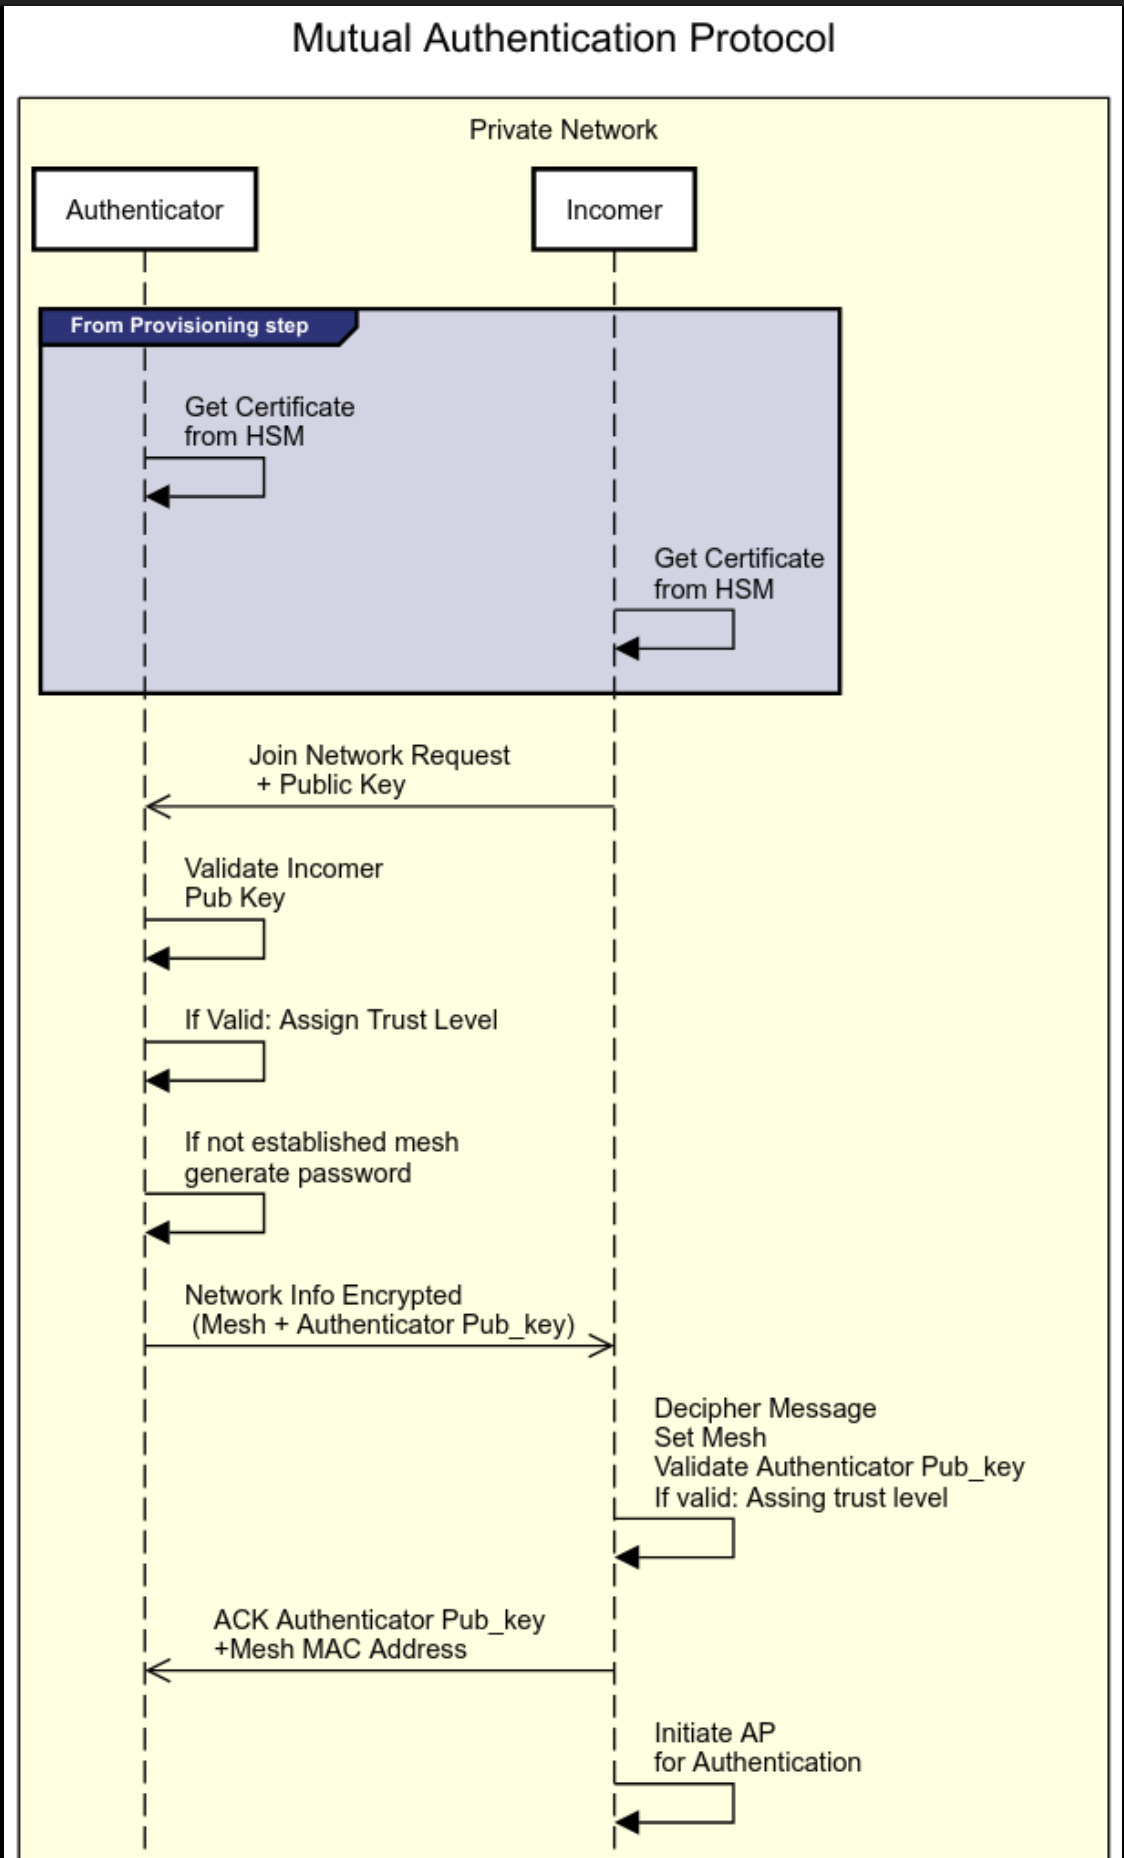
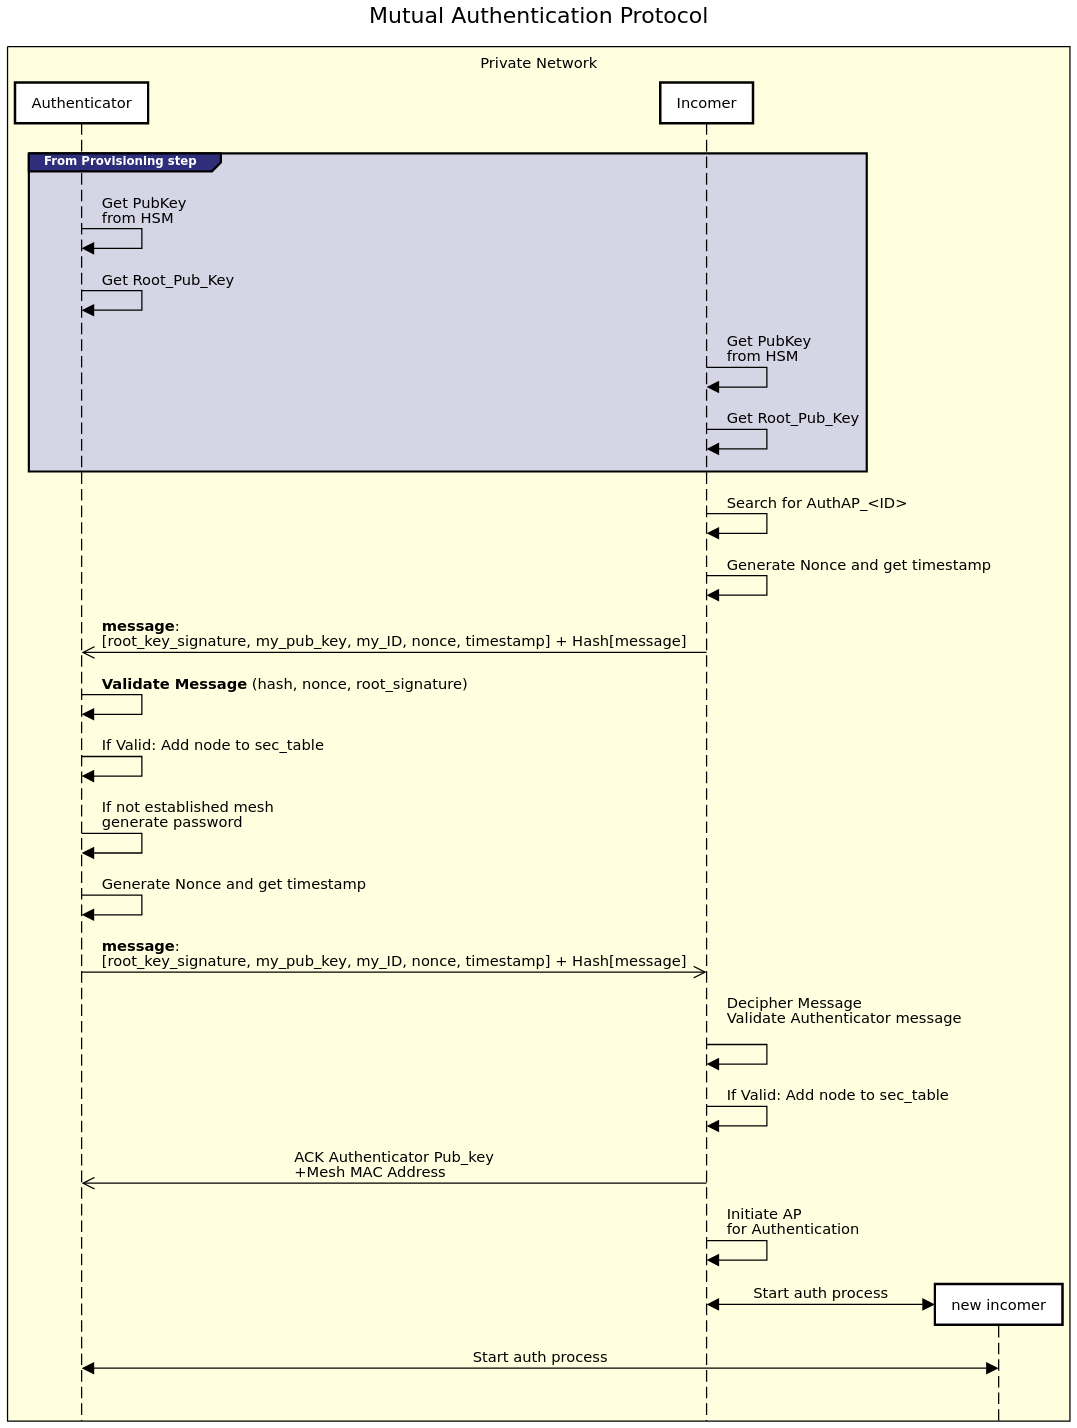
Create Readme.md
** 15Arc.png --> added figure and folder on common
** entrypoint.sh --> modify variable meshversion, added '$' on line 165, generate_random_mesh_ip to avoid (1 and 255), added verification of provisioning on features.yaml to copy fake certificate
** first-step.png --> removed
** mesh.conf --> change variable name
** node-auth.png --> update image
** protocol.png --> update image
** prov-server.png --> removed
** Readme.md (provServer) --> updated
** Readme.md (mutualAuth) --> updated
** Readme.md (main) --> added
** second-step.png --> removed
** test_sec_beat.py --> moved from test.py on main

Jira_Id : MSS15-33

diff --git a/modules/sc-mesh-secure-deployment/src/1_5/common/test/test_sec_beat.py b/modules/sc-mesh-secure-deployment/src/1_5/common/test/test_sec_beat.py
@@ -1,3 +1,5 @@
+import sys
+sys.path.insert(0, '../../')
 import header
 from main import *
 from common import utils

diff --git a/modules/sc-mesh-secure-deployment/src/1_5/features/mutual/provServer/Readme.md b/modules/sc-mesh-secure-deployment/src/1_5/features/mutual/provServer/Readme.md
@@ -1,99 +1,144 @@
 # Provisioning Server for Mutual Authentication
 
-## Introduction
-
-The provisioning server is needed to create the ID, certificates, sign the public key :lock_with_ink_pen: and provide the certificates to the nodes. The server uses GnuPG software for key creation and signing. 
-
-The provisioning Server is only executed **once**, before the mission, only for key generation,  node ID, and mesh parameters provisioning.The node ID is generated from the user input of the MAC address of the node (interface of the mesh). The MAC address is hashed using the blake2s algorithm. The output is a hexadecimal digest of 2 bytes. The ID is obtained with the conversion of the digest as an integer.
-
-The public :key: and private keys :old_key: are stored in separate files nodeIDpb.asc and nodeIDpr.asc. Then both files are transferred (via scp) to the node. This means that **both node and server must be connected to the same Access Point**. 
-
-The mesh parameters are obtained from an already created YAML file, the [mesh_com.conf](https://github.com/tiiuae/mesh_com/blob/feature/develop_pgp/modules/sc-mesh-secure-deployment/src/mesh_com.conf). The mesh IP is randomly generated and verified if it has not been provisioned. 
-
-Also, the server creates a comma-separated value (csv) of all seen nodes. This file is stored in ‘auth/dev.csv' and contains the Node ID, MAC Address, Mesh IP, and Fingerprint of the public key. 
-
-![Conceptual Diagram](../images/mutual-authentication.png)
-
-## Run Program
-### Normal Execution 
-```
-./provServer.py
-```
-It will be asked the MAC address (mesh interface) of the destination node
-
-`` Enter a MAC Address (in the format AA:BB:CC:DD:EE) : ``
-
-and then the IP address for transferring the files:
-
-`Would you like to send the certificates to a node? (yes/no): yes`
-
-`Enter node IP address: 192.168.1.100`
-
-### Cleaning Execution
-This will clean all the keys generated as well as the files.
-
-```
-./provServer.py -c
-```
-
-## Code Flow
-![Conceptual Diagram](../images/prov-server.png)
-
-
-## Installation Flow
-
-Source code
-GitHub - https://github.com/tiiuae/configurationservice 
-
-How to use
+## How to use
 The whole configuration and provisioning system comprises two discrete components from the functionality perspective; An admin console and the config-service. 
 
 The admin console is the placeholder/server from where all the device configuration parameters can be configured for any incoming client connection. It is to be noted that the admin console host machine and the incoming device request (where the config-service would be running) should be connected over the same access point. 
 
 Installing the configuration and provisioning service:
+ 
+Clone the repository: `https://github.com/tiiuae/configurationservice.git`   on the host machine
 
- Clone the repository: https://github.com/tiiuae/configurationservice
+ 
 
+### Windows OS
 If Host machine/device:   Used as an Admin Console:
 
-  Install MySQL 
+- Install MySQL and create a schema named: admin-console
 
-  Install Spring Boot | IntelliJ IDEA (jetbrains.com)
+- Install Spring Boot | IntelliJ IDEA (jetbrains.com)
 
-  Install Node.js
+- Install Node.js
 
-  Restart the system
+- Restart the system
 
-  npm install -g @angular/cli@10.0.0
+- npm install -g @angular/cli@10.0.0
 
-  ng serve: After successful execution, the admin console UI should appear at localhost:4200
+- run mvn package
 
-  Open the admin console application in IntelliJ IDEA and run the application
+- ng serve: After successful execution, the admin console UI should appear at localhost:420
 
-  update the root user / PWD in the properties file and create schema admin-console
+### LINUX OS
+On the Linux os, some additional stuff needs to be done. Please follow the below stuff to get going
 
-If Host machine/device:   Used for config-service
+1. Clone the GitHub Repository
 
-Go to the /configurationservice/config-service directory
 
-To create a docker image: docker build -t config_service  (use sudo if not using on comm sleeve)
+`sudo git clone https://github.com/tiiuae/configurationservice.git`
+ 
 
-After successful image building: docker run -d - - network host config_service
+2. Go into configuratiionservice>admin-console-ui>
 
-Check whether the container is UP and copy the container id: docker ps -a
+   - Follow the below steps to Install Node.js
 
-Executing the config_service: docker exec -it  “container id”  sh
+````
+curl -o- https://raw.githubusercontent.com/nvm-sh/nvm/v0.38.0/install.sh
+curl -o- https://raw.githubusercontent.com/nvm-sh/nvm/v0.38.0/install.sh | bash
+source ~/.bashrc
+nvm list-remote
+nvm install v16.16.0
+````
+
+3.  Do sudo su
+
+
+`npm install -g @angular/cli@10.0.0 --force`
+ 
+
+4. Go to configuratiionservice>Admin-Console
+
+
+`sudo mvn package`
+ 
+
+5. Again configuratiionservice>admin-console-ui>
+
+
+`npm start`
+ 
 
  
 
-The above steps complete the execution at the config_service. Now go to the server webpage, to check for the device. If device ip address does not appear on the list--- ping the device from the server
-
-After Ping, the device will be visible in the list. On the menu set all the desire parameters, save the root certificate and press APPLY
-
-The APPLY will trigger a config.json file which could be seen on the client device. The json file contains all the required parameters. 
-
-If any parameters for the device need to be changed, just go to the admin console ui and change/add the parameters and do a APPLY.
+Common Steps after the above steps:
 
  
 
-Note: After every fresh running remove all the stopped containers via: docker systems prune -a
+* Open the AdminConsoleApplication present in the folder Admin-    Console>src>main>java>com.adminconsole in IntelliJ IDEA.
+
+* At the top select Edit Configurations and do the following: 1) Click on Modify options and enable “Add VM options”, 2) For the option Build and run select: java 18 openjdk-18 option in the first column and paste the “-Dspring.profiles.active=dev” in the second column. For the below column put  “com.adminconsole.AdminConsoleApplication”. Do the apply.
+
+* Go to Admin-    Console>src>main>java>resources in IntelliJ IDEA and Update the root user / PWD in the properties: application.properties and application-dev.properties for the SQL schema username and password  (lines 13 and 14 and lines 8 and 9 in the scripts, respectively)
+
+* Now go to the admin-console-ui folder>src>environments: In the file environment.ts in line 7 change https to http.
+
+* Run the AdminConsoleApplication in IntelliJ IDE
+
+* After execution, go to the MySQL and under the admin-console schema in the Table>role. Create a role manually with id “1” and name” ADMIN: and do apply.
+
+* Go to the web browser and open the link `http://localhost:4200/`. Register the user, if not. Login with the credentials if already registered.
+
+ 
+
+#### If Host machine/device:   Used for config-service
+ 
+
+Same steps on both Windows and Linux
+
+ 
+
+Do an SCP to transfer the configuration service to the comm sleeve devices.
+
+First of all 
+
+1. Go to the /configurationservice/config-service directory
+
+2. To create a docker image:
+
+
+```docker build -t config_service .```
+ (use sudo if not using on comm sleeve)
+
+3. After successful image building: 
+
+
+```docker run -d --network host config_service``` 
+
+Check whether the container is UP and copy the container id: 
+
+
+``docker ps -a``
+
+Executing the config_service: 
+
+
+`docker exec -it  <container id>  sh`
+ 
+
+##### If the JSON file has to be viewed outside the container
+
+```
+docker run -d --network host --volume config_service path:/root/ config_service 
+docker exec -it  <container id>  cp /config.json /root/
+```
+
+The above steps complete the execution at the config_service. Now go to the server webpage, to check for the device. If the device ip address does not appear on the list--- ping the device from the server
+
+After Ping, the device will be visible in the list. On the menu set all the desired parameters, save the root certificate and press APPLY
+
+The APPLY will trigger a config.json file which could be seen on the client device. The JSON file contains all the required parameters. 
+
+If any parameters for the device need to be changed, just go to the admin console UI and change/add the parameters and do an APPLY.
+
+ 
+
+Note: After every fresh running remove all the stopped containers via docker systems prune -a

diff --git a/modules/sc-mesh-secure-deployment/src/1_5/Readme.md b/modules/sc-mesh-secure-deployment/src/1_5/Readme.md
@@ -1,0 +1,48 @@
+# Mesh Shield 1.5
+
+The Mesh Shield 1.5 is a security solution for mesh network devices that provides advanced protection against malicious attacks. It includes several security features that help ensure the security of the mesh network, including:
+
+1. Mutual Authentication: This feature verifies the identity participant devices  before allowing access to the network. It helps prevent unauthorized access and protects against identity theft.
+    - For the PoC (MS 1.5) we use prime field Weierstrass 256-bit Elliptic Curves (Also known as secp256r1P-256). In addition, we use SOFT-HSM with the pkcs11-tool for key handling.
+
+2. Continuous Authentication: This feature monitors network activity in real-time, detecting and preventing any unusual or suspicious behavior. It helps prevent attacks that can bypass traditional security measures such as firewalls and antivirus software.
+
+3. Decision Engine: The decision engine uses is a rule-based solution that creates a degree of trust for each node. 
+
+4. Malicious Announcement: This feature automatically blocks any devices that are identified as malicious or compromised. It prevents these devices from accessing the network and spreading malware.
+
+5. Quarantine: The quarantine feature isolates any devices that are suspected of being compromised or infected. It prevents them from accessing the network until they are thoroughly scanned and deemed safe.
+
+The following image shows a flow diagram of the Mesh Shield 1.5:
+
+<img src="./common/img/15Arc.png"/>
+
+
+## Execution
+
+The Mesh Shield 1.5 (MS1.5) runs on a docker automatically loaded during booting. 
+The MS1.5 path is on ```/opt/container-data/mesh/mesh_com/modules/sc-mesh-secure-deployment/src/1_5#```
+* `SC_MESH_FOLDER=/opt/container-data/mesh/mesh_com/modules/sc-mesh-secure-deployment/src/1_5`
+
+The system has a modularity execution that make it easy to run one or all the security features. 
+By default, the system will run Mutual Authentication (step 1) and the security beat (step 2 to 5).
+Nevertheless, it is possible to disable one or all the security features on the file: 
+``cat features.yaml``
+```
+only_mesh: false
+NESS: false
+continuous: false
+mutual: true
+secbeat: true
+quarantine: false
+mesh: true
+provisioning: false
+``` 
+
+## Configuration
+1. To configure the features that need to run on the system modify the `features.yaml` file. 
+If the `provisioning` feature is true, then the `root_cert.der` file should be placed on the `/etc/ssl/certs` folder. Otherwise, the system uses a "fake" `root_cert.der` for testing. 
+2. If any specific parameter of the mesh need to modify (`SSID`, `frequency`, etc)  modify the `$SC_MESH_FOLDER/common/mesh_com_11s.conf`.  
+   * This file should be modified by the provisioning server. 
+3. For setting the mesh shield version and installing the machine learning packages, modify the file `mesh.conf` on the docker file
+   * Currently only the last to variables are used in MS1.5 (MSVERSION and ML) --> this file needs to be integrated `with mesh_com_11s.conf` file

diff --git a/modules/sc-mesh-secure-deployment/src/1_5/features/mutual/Readme.md b/modules/sc-mesh-secure-deployment/src/1_5/features/mutual/Readme.md
@@ -18,20 +18,15 @@ Finally, when all the parameters are ready, another code on utils (mesh.py) will
 ### Protocol 
 
 The following image shows the protocol of the mutual authentication:
-<img src="../images/protocol.png" width="40%" height="40%"> 
+<img src="./images/protocol.png" width="40%" height="40%"> 
 
-## Run Program
-### Normal Execution 
-```
-./nodeAuth.py
-```
+### Certificate Provisioning
 
-### Cleaning Execution
-This will clean all the keys generated as well as the files.
+Each node generates a pair of keys. Both keys are generated INSIDE the Hardware Security Module (HSM). Then, the public key is exported FROM HSM to a certificate (DER file). 
 
-```
-./nodeAuth.py -c
-```
+The certificate should be signed by the authentication server (or certification authority). In this PoC, we assume this step has already been performed. Thus, this means that the pair of keys has been created ON the Hardware Security Module (HSM) and the certificate has been signed by the CA during the out-of-the-box step. 
+
+For the PoC (MS 1.5) we use prime field Weierstrass 256-bit Elliptic Curves (Also known as secp256r1P-256). In addition, we use SOFT-HSM with the pkcs11-tool for key handling. 
 
 ## Code Flow
 ![Conceptual Diagram](images/node-auth.png)
